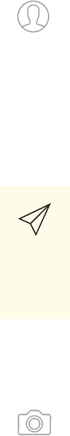
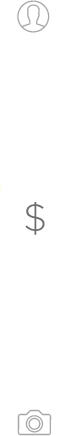
images

Changed region(s): [[0.2571, 0.4472, 0.7429, 0.5665]]

diff --git a/index.html b/index.html
@@ -68,8 +68,7 @@ License URL: http://creativecommons.org/licenses/by/3.0/
 							<ul class="top-nav">
 								<li class="active"><a href="#home" class="scroll">Home </a></li>
 								<li class="page-scroll"><a href="#fea" class="scroll">FEATURES</a></li>
-								<li class="page-scroll"><a href="#gallery" class="scroll">Gallery</a></li>
-								<li class="page-scroll"><a href="#about" class="scroll">About </a></li>
+								<li class="page-scroll"><a href="#about" class="scroll">TEAM</a></li>
 								<li class="contatct-active" class="page-scroll"><a href="#contact" class="scroll">Contact</a></li>
 							</ul>
 							<a href="#" id="pull"><img src="images/nav-icon.png" title="menu" /></a>
@@ -137,8 +136,8 @@ License URL: http://creativecommons.org/licenses/by/3.0/
 			<div id="fea" class="features">
 				<div class="container">
 					<div class="section-head text-center">
-						<h3><span class="frist"> </span>AMAZING FEATURES<span class="second"> </span></h3>
-						<p>Sed ut perspiciatis unde omnis iste natus error sit voluptatem accusantium doloremque laudantium, totam rem aperiam, eaque ipsa quae ab illo inventore veritatis et quasi architecto beatae vitae dicta.</p>
+						<h3><span class="frist"> </span>GET YOUR HAIRCUT, YOUR WAY<span class="second"> </span></h3>
+						<p>Don't wait around for a hairdress anymore, or worry about how it's going to turn out. Booking appointments and waiting rooms should be for doctors and dentists. Skip the line, get SNIPPET.</p>
 					</div>
 					<!----features-grids----->
 					<div class="features-grids">
@@ -148,8 +147,8 @@ License URL: http://creativecommons.org/licenses/by/3.0/
 									<span class="f-icon0"> </span>
 								</div>
 								<div class="col-md-10 features-info">
-									<h4>Accusan timar</h4>
-									<p>Sed ut perspiciatis unde omnis iste natus error sit voluptatem accusantium doloremque laudantium.</p>
+									<h4>Personalized</h4>
+									<p>Set your hair type and preferred style ahead of time to get an individualized experience the way you want it.</p>
 								</div>
 								<div class="clearfix"> </div>
 							</div>
@@ -158,8 +157,8 @@ License URL: http://creativecommons.org/licenses/by/3.0/
 									<span class="f-icon1"> </span>
 								</div>
 								<div class="col-md-10 features-info">
-									<h4>Accusan timar</h4>
-									<p>Sed ut perspiciatis unde omnis iste natus error sit voluptatem accusantium doloremque laudantium.</p>
+									<h4>Immediate</h4>
+									<p>Don't wait around. See when your hairdresser is ready and go! Appointments are superfluous, and you probably need it ASAP anyway.</p>
 								</div>
 								<div class="clearfix"> </div>
 							</div>
@@ -168,8 +167,8 @@ License URL: http://creativecommons.org/licenses/by/3.0/
 									<span class="f-icon2"> </span>
 								</div>
 								<div class="col-md-10 features-info">
-									<h4>Accusan timar</h4>
-									<p>Sed ut perspiciatis unde omnis iste natus error sit voluptatem accusantium doloremque laudantium.</p>
+									<h4>Location Based</h4>
+									<p>Get a haircut where it's convenient for you. See who is on your way home, near work, or nearby.</p>
 								</div>
 								<div class="clearfix"> </div>
 							</div>
@@ -186,18 +185,8 @@ License URL: http://creativecommons.org/licenses/by/3.0/
 									<span class="f-icon3"> </span>
 								</div>
 								<div class="col-md-10 features-info">
-									<h4>Accusan timar</h4>
-									<p>Sed ut perspiciatis unde omnis iste natus error sit voluptatem accusantium doloremque laudantium.</p>
-								</div>
-								<div class="clearfix"> </div>
-							</div>
-							<div class="features-grid-info">
-								<div class="col-md-2 features-icon1">
-									<span class="f-icon4"> </span>
-								</div>
-								<div class="col-md-10 features-info">
-									<h4>Accusan timar</h4>
-									<p>Sed ut perspiciatis unde omnis iste natus error sit voluptatem accusantium doloremque laudantium.</p>
+									<h4>Reputation</h4>
+									<p>Ranked and reviewed hairdressers, get what you want everytime. Get rewarded for rating your haircut, immediately and after you've shown it off.</p>
 								</div>
 								<div class="clearfix"> </div>
 							</div>
@@ -206,8 +195,18 @@ License URL: http://creativecommons.org/licenses/by/3.0/
 									<span class="f-icon5"> </span>
 								</div>
 								<div class="col-md-10 features-info">
-									<h4>Accusan timar</h4>
-									<p>Sed ut perspiciatis unde omnis iste natus error sit voluptatem accusantium doloremque laudantium.</p>
+									<h4>See Portfolios</h4>
+									<p>Know what your hair is going to end up like before you cut. See previous client work from your hairdresser!</p>
+								</div>
+								<div class="clearfix"> </div>
+							</div>
+							<div class="features-grid-info">
+								<div class="col-md-2 features-icon1">
+									<span class="f-icon4"> </span>
+								</div>
+								<div class="col-md-10 features-info">
+									<h4>Set a Price</h4>
+									<p>Pick how much you pay and skip the awkward transaction step of pulling out your wallet. Pay from mobile, in a safe and secure transaction.</p>
 								</div>
 								<div class="clearfix"> </div>
 							</div>
@@ -220,12 +219,6 @@ License URL: http://creativecommons.org/licenses/by/3.0/
 					<!----//features----->
 					<!----screen-shot-gallery---->
 					<div id="gallery" class="screen-shot-gallery">
-						<div class="container">
-							<div class="section-head text-center">
-								<h3><span class="frist"> </span>SCREENSHOTS GALLERY<span class="second"> </span></h3>
-								<p>Sed ut perspiciatis unde omnis iste natus error sit voluptatem accusantium doloremque laudantium, totam rem aperiam, eaque ipsa quae ab illo inventore veritatis et quasi architecto beatae vitae dicta.</p>
-							</div>
-						</div>
 						<!----sreen-gallery-cursual---->
 						<div class="sreen-gallery-cursual">
 							 <!-- requried-jsfiles-for owl -->
